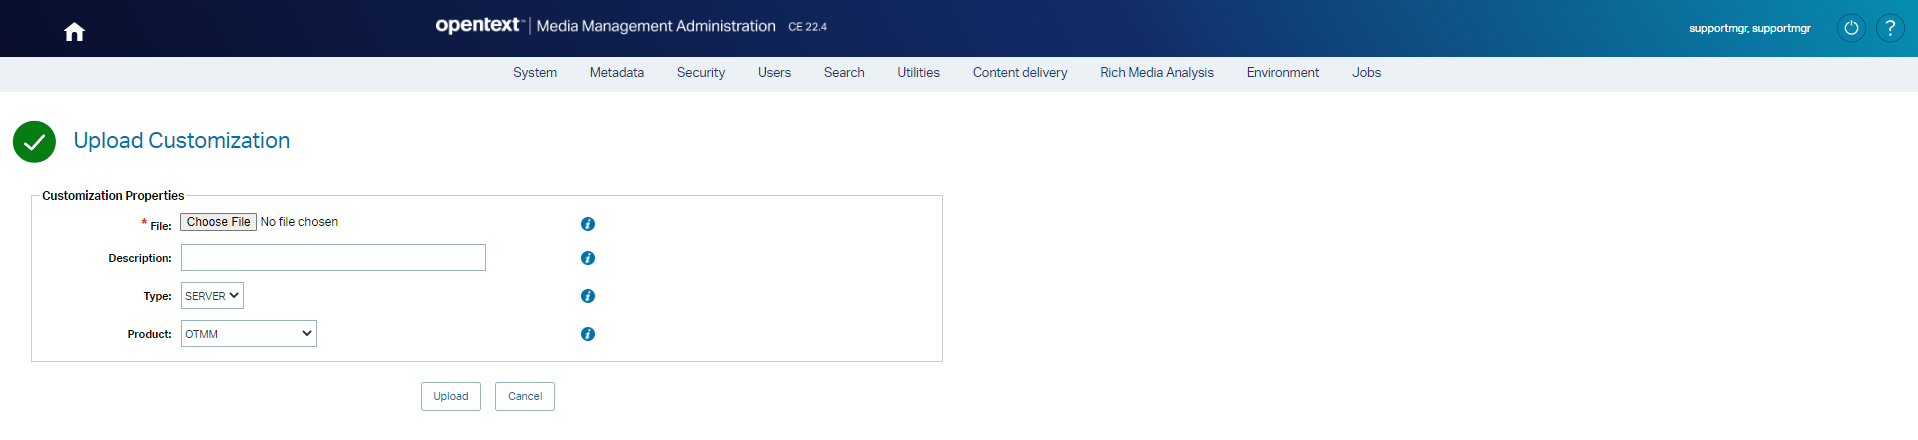
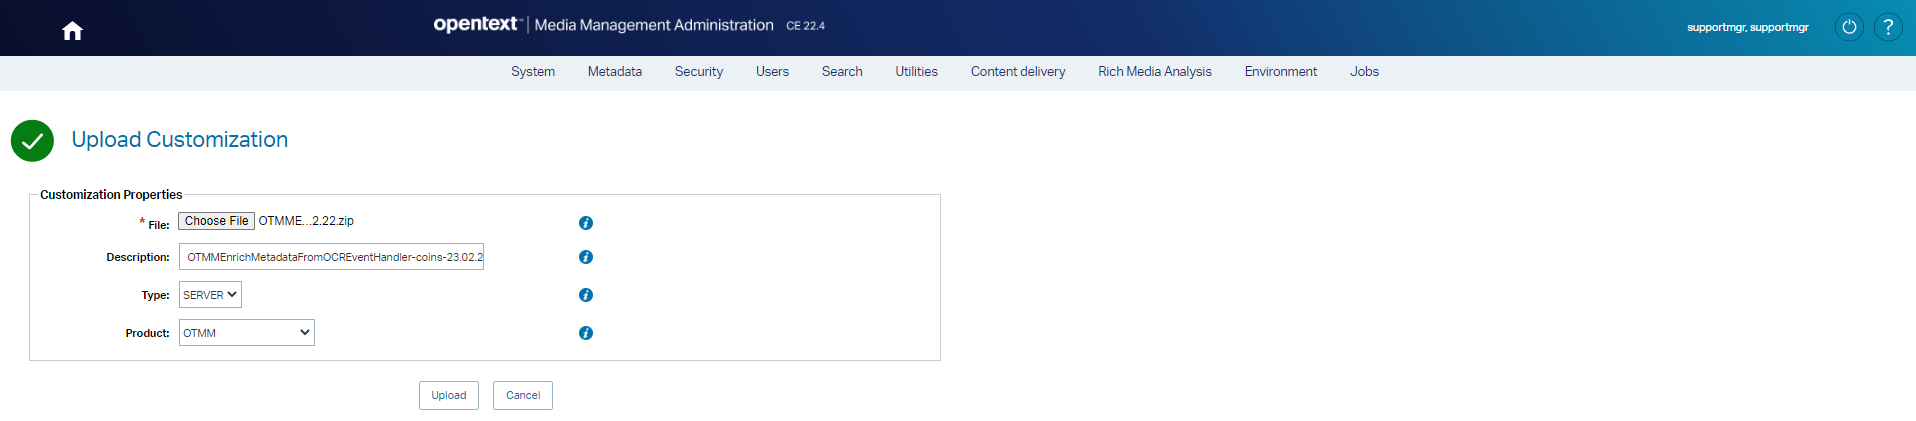
Updated scripts to fix the path used.

diff --git a/README.md b/README.md
@@ -49,6 +49,7 @@ There are two sub-projects:
   > **NOTE**: You can use the zip file included in the `customization` folder of this repository, or
   > you can follow this manual to [Prepare the customization files for upload](https://docsapi.opentext.com/docs/pi_hosted/_org/ofh1/index.html?/medmgt220400-h-agd-en/prep-upload-cust.html)
   
+  * **Description**: `Must be the same that the customization name`, in our example `OTMMEnrichMetadataFromOCREventHandler-coins-23.02.22`
   * **Type**: `SERVER`
   * **Product**: `OTMM`
    
